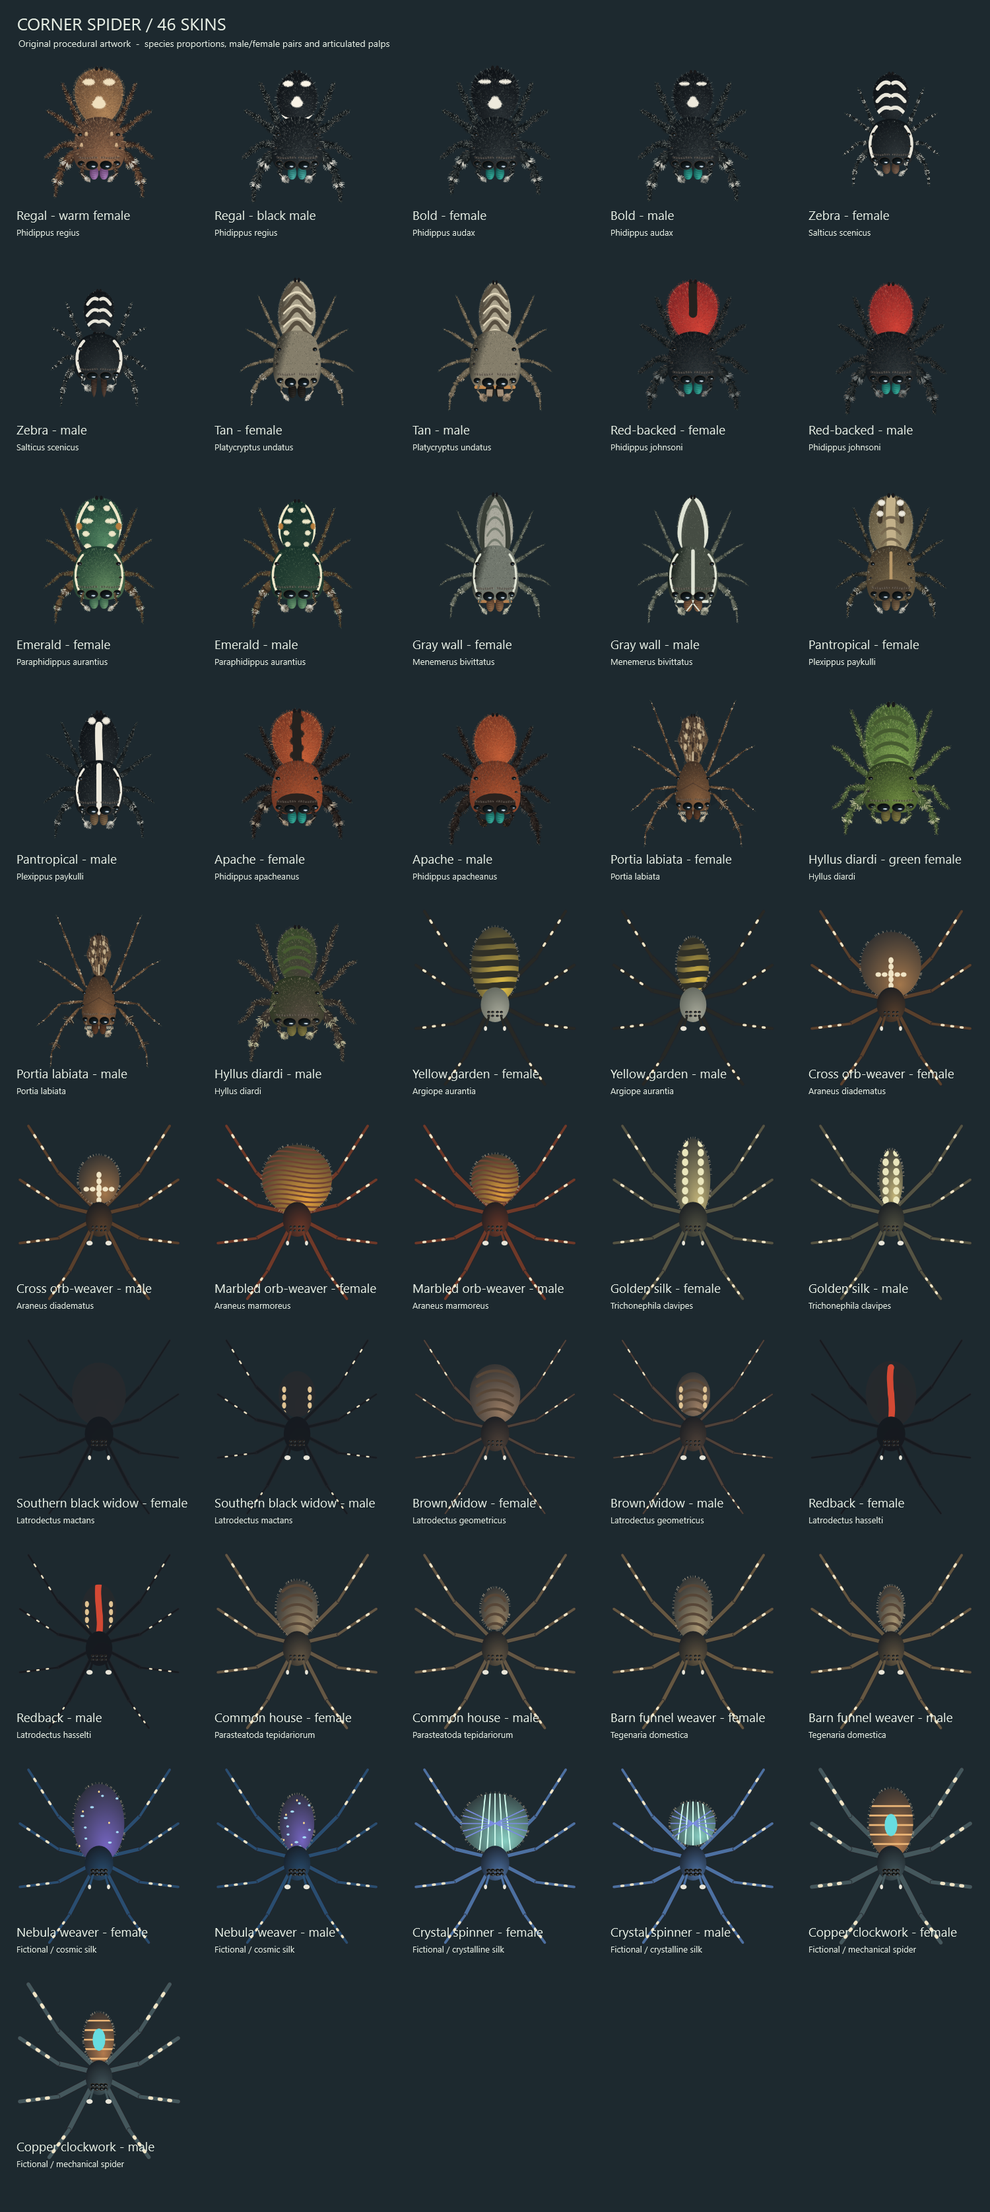
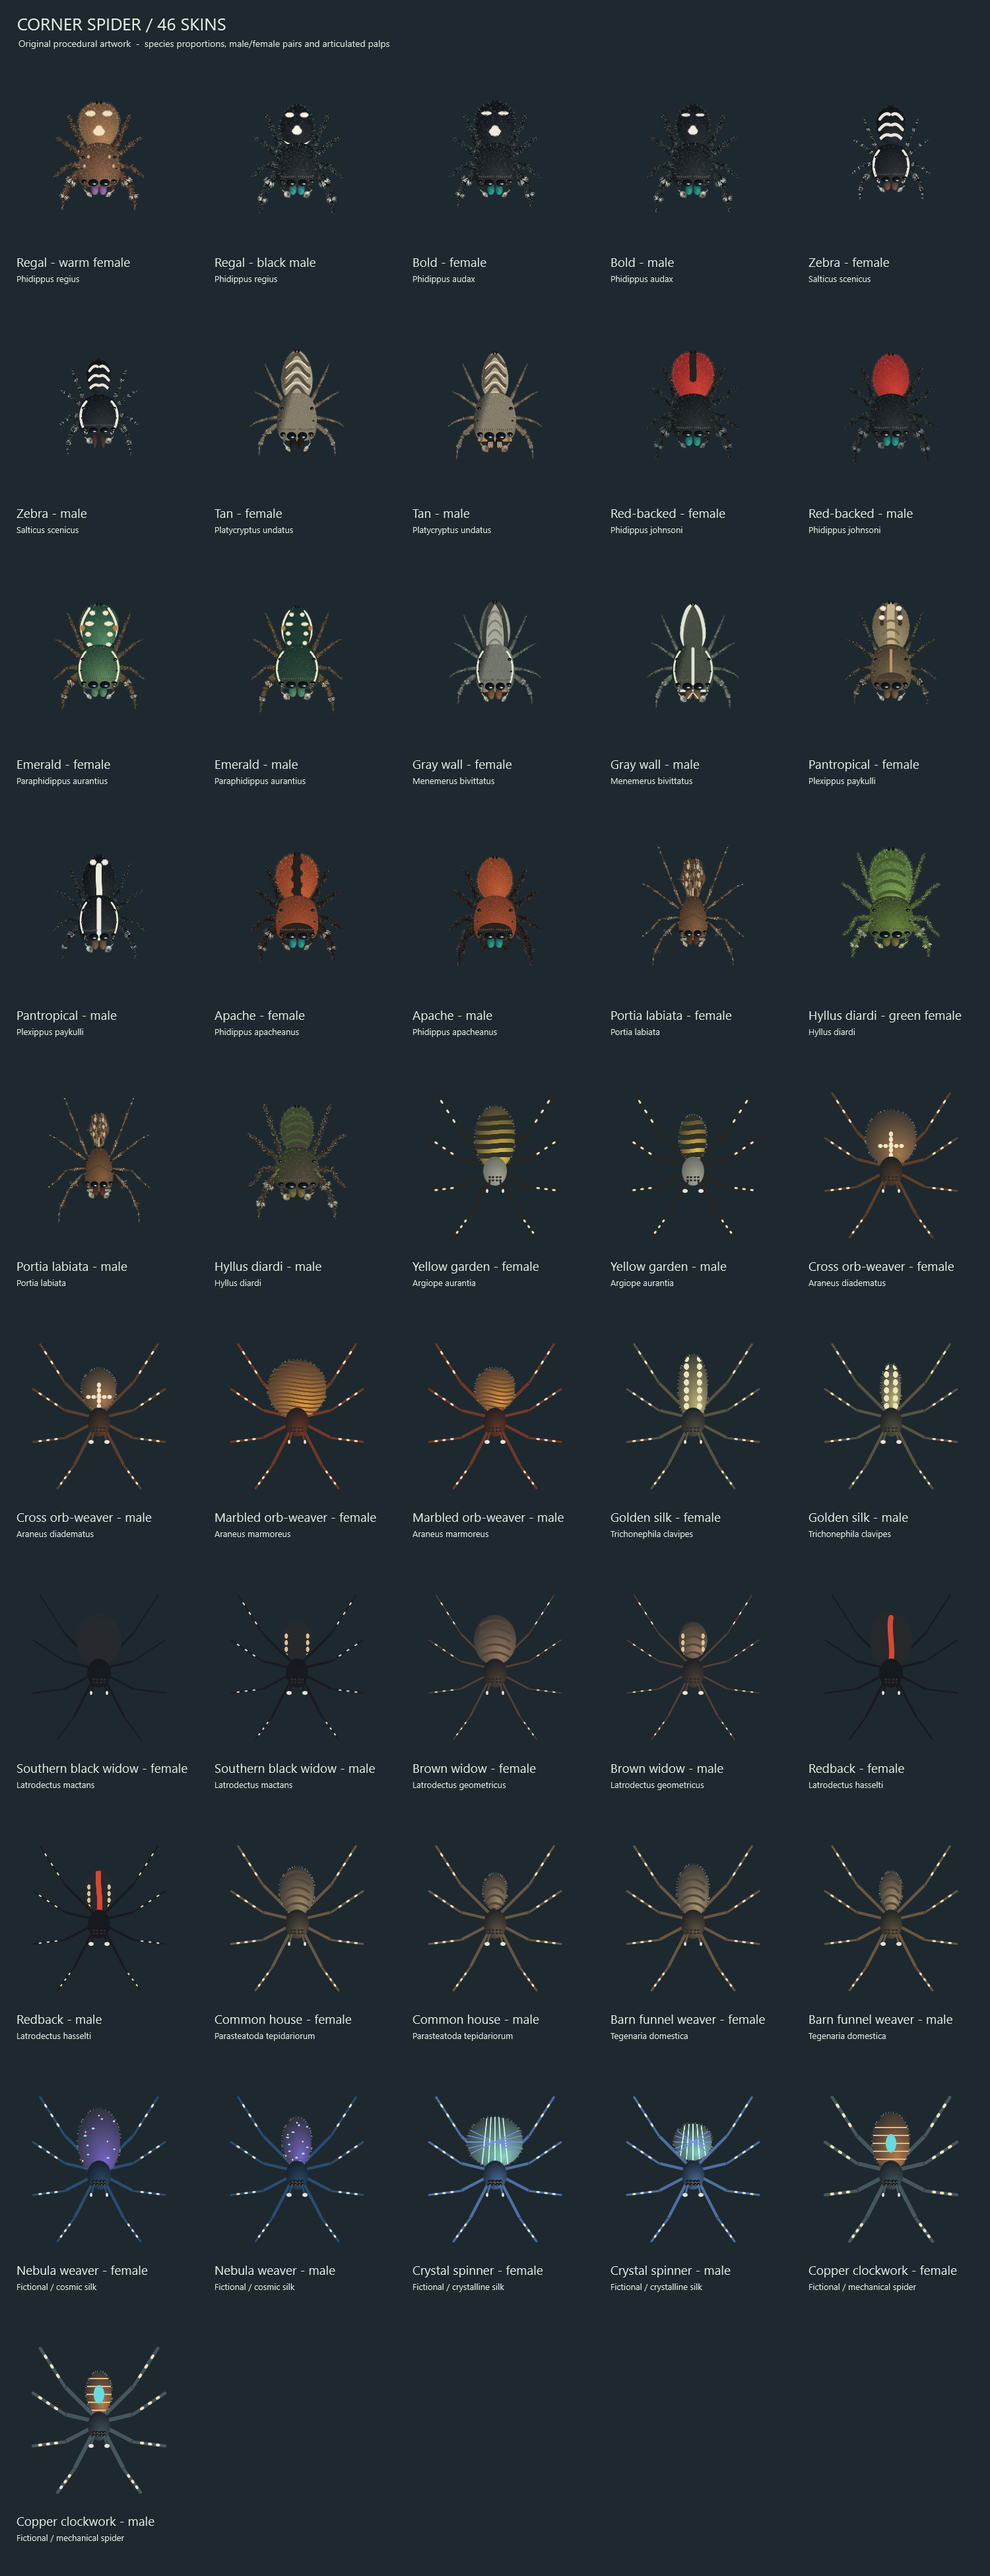
Prepare alpha.2 community prerelease and readable species gallery

diff --git a/ReleasePreview.cs b/ReleasePreview.cs
@@ -43,7 +43,7 @@ namespace CornerSpider {
         static Brush BPreview(string color) { return (Brush)new BrushConverter().ConvertFromString(color); }
         public static void RenderSkinGallery(string folder) {
             RenderSkinSizes(folder);
-            RenderPalpGallery(folder);int height=100+((SkinCatalog.All.Length+4)/5)*325;
+            RenderPalpGallery(folder);int height=100+((SkinCatalog.All.Length+4)/5)*380;
             foreach(bool dark in new[]{false,true}) {
                 var v=new DrawingVisual();using(var d=v.RenderOpen()) {
                     Color ink=dark?Color.FromRgb(229,237,227):Color.FromRgb(29,48,44);
@@ -51,9 +51,9 @@ namespace CornerSpider {
                     Text(d,"CORNER SPIDER / "+SkinCatalog.All.Length+" SKINS",26,18,26,ink);
                     Text(d,"Original procedural artwork  -  species proportions, male/female pairs and articulated palps",28,56,14,ink);
                     for(int i=0;i<SkinCatalog.All.Length;i++) {
-                        var skin=SkinCatalog.All[i];double x=150+(i%5)*300,y=200+(i/5)*325;
-                        var w=new World(1500,height,42);w.Scale=2.4;w.Spider=new V(x,y);w.Angle=180;w.State=Mood.Rest;
-                        PetCanvas.DrawSpider(d,w,skin.Id);Text(d,skin.Name,x-125,y+112,19,ink);Text(d,skin.Scientific,x-125,y+143,13,ink);
+                        var skin=SkinCatalog.All[i];double x=150+(i%5)*300,y=235+(i/5)*380;
+                        var w=new World(1500,height,42);w.Scale=2;w.Spider=new V(x,y);w.Angle=180;w.State=Mood.Rest;
+                        PetCanvas.DrawSpider(d,w,skin.Id);Text(d,skin.Name,x-125,y+148,19,ink);Text(d,skin.Scientific,x-125,y+178,13,ink);
                     }
                 }SavePng(v,1500,height,Path.Combine(folder,"skins-"+(dark?"dark":"light")+".png"));
             }

diff --git a/README.md b/README.md
@@ -1,8 +1,8 @@
 # Corner Spider 1.1 preview
 
 A spider companion for your actual Windows desktop. This is **1.1.0-alpha.2**,
-a local preview of the next version. The published [1.0 release](https://github.com/tedparkes/corner-spider/releases/tag/v1.0.0)
-remains available and unchanged. This preview has not been published on GitHub.
+a prerelease for community testing. The [1.0 release](https://github.com/tedparkes/corner-spider/releases/tag/v1.0.0)
+remains the stable version. [Download this preview and read its release notes](https://github.com/tedparkes/corner-spider/releases/tag/v1.1.0-alpha.2).
 
 Extract the Windows ZIP and open **JumpingSpider.exe**. Windows 10/11 with .NET
 Framework 4.8; no installer, administrator rights or asset downloads. Startup is
@@ -124,6 +124,11 @@ Portia leaves. The encounter shares the single prey slot and waits during life e
 channel, and Download and restart when a newer compatible release is available.
 Automatic checks never install or restart on their own. The default channel is
 stable; a local 1.1 preview will not downgrade to public 1.0.
+
+Enable **Include preview releases** to receive future prereleases. An installed
+alpha.2 correctly reports no newer preview when alpha.2 is the newest release.
+Version 1.0 has no updater: download and extract this Windows ZIP once to move
+to the preview. Quit the previous pet first.
 
 Checks read the public GitHub releases API for `tedparkes/corner-spider`; downloads
 come from that repository and GitHub's asset servers. No pet history, settings or

diff --git a/docs/VERIFICATION-NEXT.md b/docs/VERIFICATION-NEXT.md
@@ -1,7 +1,8 @@
 # Verification: 1.1.0-alpha.2
 
-Local Windows development preview, November 5, 2026. Published 1.0 and alpha.1
-packages remain preserved. This preview has not been published on GitHub.
+Windows prerelease verification, November 5, 2026. Published 1.0 and the earlier
+local preview packages remain preserved. These checks were completed before
+publication; the GitHub release page records subsequent live updater checks.
 
 ## Completed
 
@@ -54,9 +55,10 @@ every ZIP entry against its staged source and emits SHA-256 checksums.
 - Use finger play and click-through at 20%, 100% and 180%. Test two physical
   monitors with mixed DPI, changing the home screen, display reconnect, lock/unlock
   and sleep/resume. Check resident homes as well as the main pet.
-- When a newer release is published, use Download and restart from a normal
-  installation. The helper was tested locally; a future public upgrade cannot be
-  exercised against the currently older public 1.0 package.
+- Use Download and restart from a normal installation when a newer preview is
+  available. Alpha.2 is the first public build with an updater; an existing alpha.2
+  installation should report up to date. A controlled older-version fixture is
+  used to exercise the public download without downgrading personal saves.
 - Try manual checks offline and automatic checking over an actual day. Version and
   channel decisions are tested; a day-long native scheduling/outage test is pending.
 

diff --git a/CHANGELOG.md b/CHANGELOG.md
@@ -4,6 +4,8 @@
 
 ## 1.1.0-alpha.2
 
+- Publish the first 1.1 community prerelease, with updated launch/update guidance
+  and extra gallery spacing so long-legged species do not overlap their labels.
 - Add opt-in daily GitHub update checks, manual checks, stable/preview release
   selection and an explicit Download and restart action. Never offer downgrades.
 - Validate release asset URLs, checksums, executable versions, ZIP paths and size
